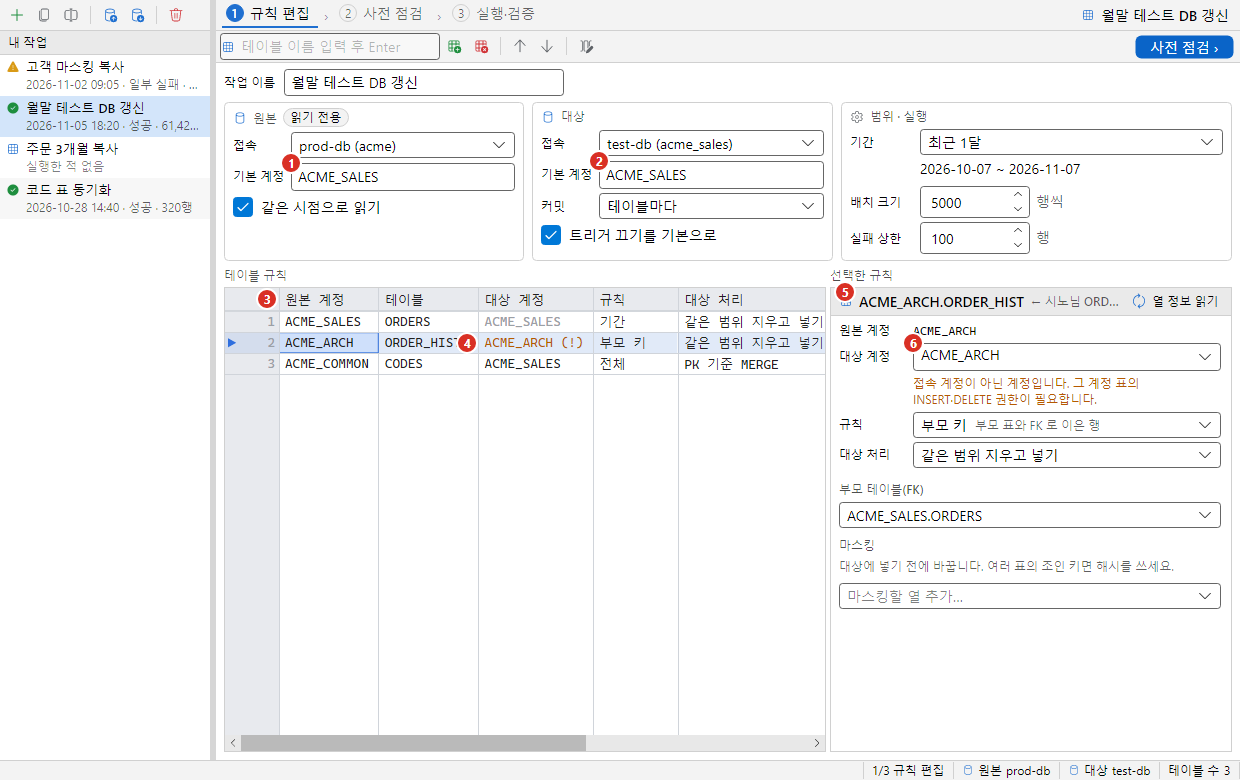
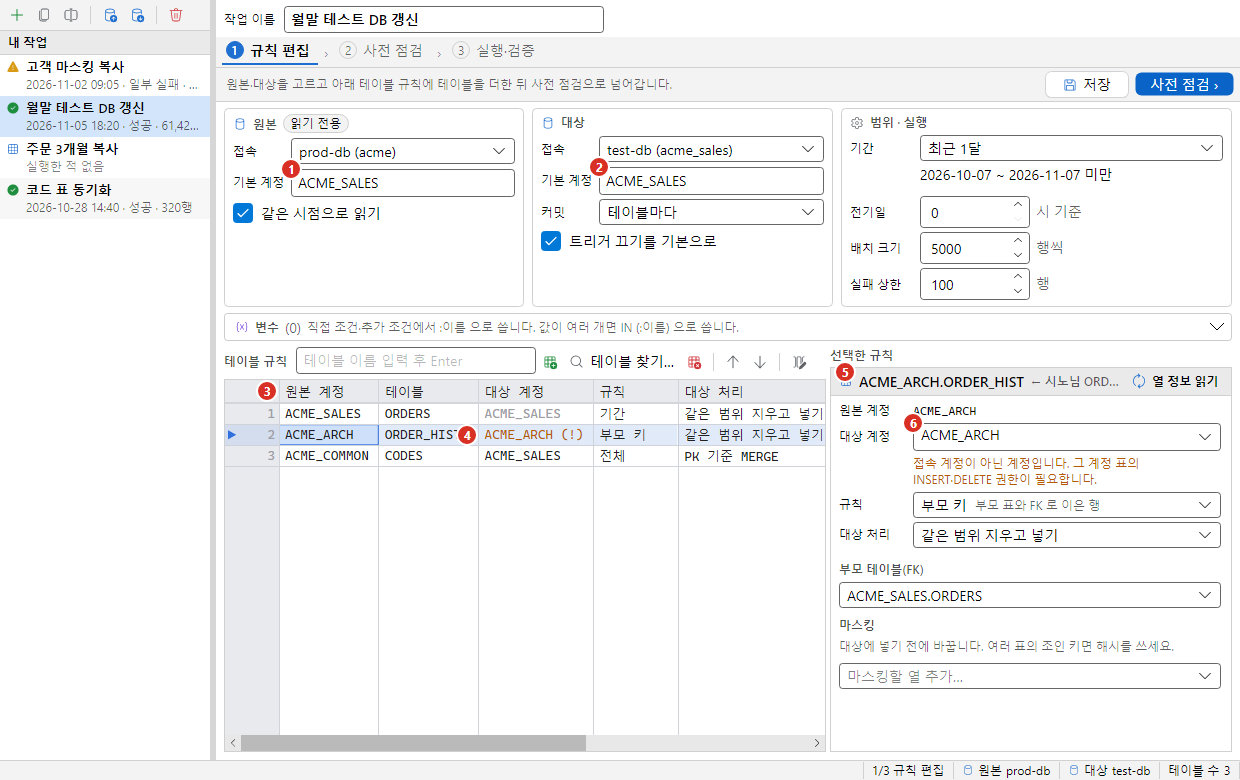
docs(manual): Windows captures for data copy and the schema browser; status-bar reconnect
- Recaptured (Windows, headless): all data-copy screens, schema-browser-tree and the
  main-window screens that show the schema browser (new 「테이블 명」 check).
- New figures with numbered notes: table finder, variables with 「조건에 넣기」, work log.
- connect/manage: the status-bar 「새로 고침」 button and that 다시 접속 now reconnects the
  shown connection, not the last one opened (0.1.19).
- data-copy: job name field, mask remove button in the rules figure notes.

Claude-Session: https://claude.ai/code/session_01M9hnLUwaGMUAUAdNdgnNmt

diff --git a/site/src/content/docs/transfer/data-copy.md b/site/src/content/docs/transfer/data-copy.md
@@ -52,8 +52,10 @@ description: 한 접속의 표 데이터를 다른 접속으로 복사하는 방
 6. 커밋 단위
 7. 규칙 그리드
 8. 선택한 규칙을 편집하는 패널. 맨 위가 원본 계정·대상 계정, 그 아래가 규칙 종류(이름 옆에 짧은 설명)와 대상 처리입니다. 그림의 기간 규칙에는 기간 열 아래에 「추가 조건(AND)」이 있습니다.
-9. 마스킹. 아래에 건너뛸 열이 이어집니다.
+9. 마스킹. 열마다 방법 콤보와 오른쪽 빼기(−) 단추가 있고, 아래에 「마스킹할 열 추가…」와 건너뛸 열이 이어집니다.
 10. **사전 점검** 단추. 도구 모음 오른쪽 끝의 파란 단추입니다. 바로 왼쪽에 **저장** 단추가 있습니다([작업 저장](#작업-저장)).
+
+창 맨 위의 「작업 이름」 칸은 세 단계 모두에서 보이고, 여기서 고친 이름이 내 작업 목록과 저장 파일에 쓰입니다.
 
 「범위 · 실행」 묶음 아래에는 접어 둔 「변수」 칸이 있습니다. 제목 옆 괄호에 변수 수가 나옵니다. 쓰는 방법은 [변수](#변수)에서 설명합니다.
 
@@ -102,6 +104,18 @@ description: 한 접속의 표 데이터를 다른 접속으로 복사하는 방
 #### 테이블 찾기
 
 표 이름 칸 옆의 **테이블 찾기…** 단추를 누르면 원본 계정의 표를 검색해 여러 개를 한 번에 규칙으로 더하는 창이 열립니다. 작업을 열고 원본 접속을 고른 뒤에 쓸 수 있고, 원본 세션이 없으면 비밀번호를 묻습니다.
+
+![테이블 찾기 창](../../../assets/screens/data-copy-finder.png)
+
+1. 계정 콤보
+2. 이름·테이블 명 필터. 그림은 `order`로 걸러 이름에 `ORDER`가 든 표만 보입니다.
+3. 「시노님 포함」 체크
+4. 계정, 전체 수, 맞는 수, 고른 수 요약 줄
+5. 머리글의 체크. 보이는 표를 모두 고르거나 풉니다.
+6. 「이미 있음」 표지. 작업 규칙에 이미 있는 표라 흐리고 체크할 수 없습니다.
+7. 고른 표. 이름에서 검색어와 맞는 글자가 강조됩니다. 「유형」이 시노님인 줄은 더할 때 실제 표로 풉니다.
+8. 검색을 바꿔도 고른 표가 남는다는 안내와 고른 수
+9. **선택한 N개 추가** 단추
 
 | 항목 | 설명 |
 |---|---|
@@ -217,6 +231,18 @@ description: 한 접속의 표 데이터를 다른 접속으로 복사하는 방
 코일 번호, 주문 번호, 자재 코드처럼 조건에 넣을 값 목록을 「변수」로 두고 직접 조건과 기간 규칙의 추가 조건에서 `:이름`으로 씁니다. 변수는 작업에 함께 저장되고, 한 작업의 모든 규칙이 같은 변수를 씁니다.
 
 「범위 · 실행」 묶음 아래의 「변수」 칸을 펼치고 **변수 더하기**를 누르면 한 줄이 생깁니다.
+
+![변수 두 개를 둔 변수 칸과 조건에 넣은 결과](../../../assets/screens/data-copy-variables.png)
+
+1. 「변수」 칸 머리. 괄호 안이 변수 수이고, 누르면 펼치거나 접습니다.
+2. 이름
+3. 형식
+4. 값. 그림은 세 줄로 적은 주문 번호입니다.
+5. 값 수와 쓰는 꼴. 값이 셋이라 `IN (:ORDER_IDS)`이고, 값이 하나인 아래 줄은 `= :STATUS_CD`입니다.
+6. **조건에 넣기** 단추
+7. **변수 더하기** 단추
+8. 고른 규칙(기간 규칙 `ORDERS`)의 「추가 조건(AND)」. **조건에 넣기**를 눌러 원래 조건 뒤에 ` AND ORDER_ID IN (:ORDER_IDS)`가 붙었습니다. 열 이름은 변수 이름 `ORDER_IDS`에서 끝의 `S`를 떼어 찾았습니다.
+9. 상태 줄에 나온 결과 안내
 
 | 칸 | 설명 |
 |---|---|
@@ -406,6 +432,17 @@ description: 한 접속의 표 데이터를 다른 접속으로 복사하는 방
 ### 작업 로그
 
 「작업 로그」 탭에는 실행기가 대상과 원본에 실제로 보낸 문장과 그 결과가 시간 순서로 한 줄씩 쌓입니다. 무엇을 어떤 순서로 실행했는지, 어디서 멈췄는지 볼 때 씁니다. 줄은 `10:30:15 [적재] ORDERS · 배치 3 · 5,000행 보냄 · 누적 15,000행`처럼 시각, 단계, 표, 내용 순서입니다. 표는 기본 원본 계정의 표면 이름만(`ORDERS`), 다른 계정의 표면 `계정.표`(`APP2.ORDERS`)로 나옵니다.
+
+![복사가 끝난 뒤의 작업 로그 탭](../../../assets/screens/data-copy-runlog.png)
+
+1. 「작업 로그」 탭
+2. **로그 복사** 단추
+3. **로그 저장…** 단추
+4. 시작 줄. 작업 이름, 접속, 표 수, 커밋 단위 같은 실행 설정과 계산된 기간이 나옵니다.
+5. 문장 줄(파란 글). 대상에 보낸 `DELETE`와 기간 경계 바인드 값입니다.
+6. 결과 줄. 바로 위 문장의 결과(지운 행 수, 걸린 시간)입니다.
+7. 알림 줄(주황 글)
+8. 오류 줄(빨간 글). 그 아래가 끝 줄입니다.
 
 | 단계 | 남는 내용 |
 |---|---|
